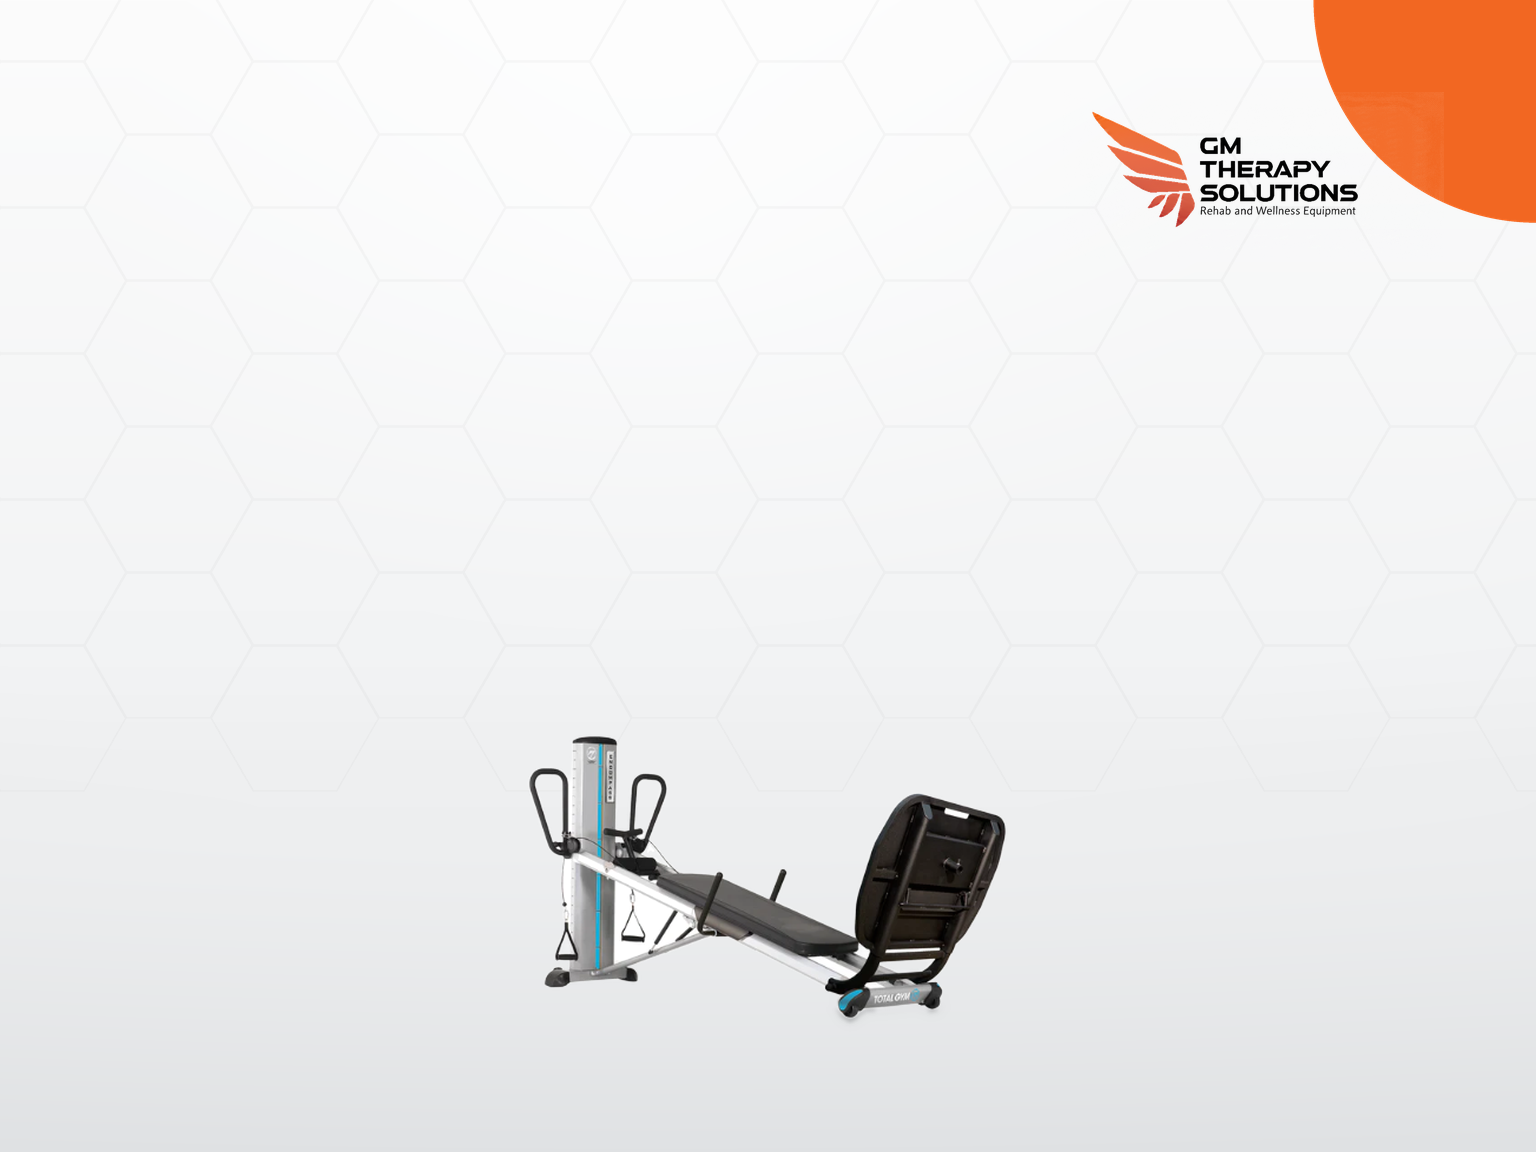
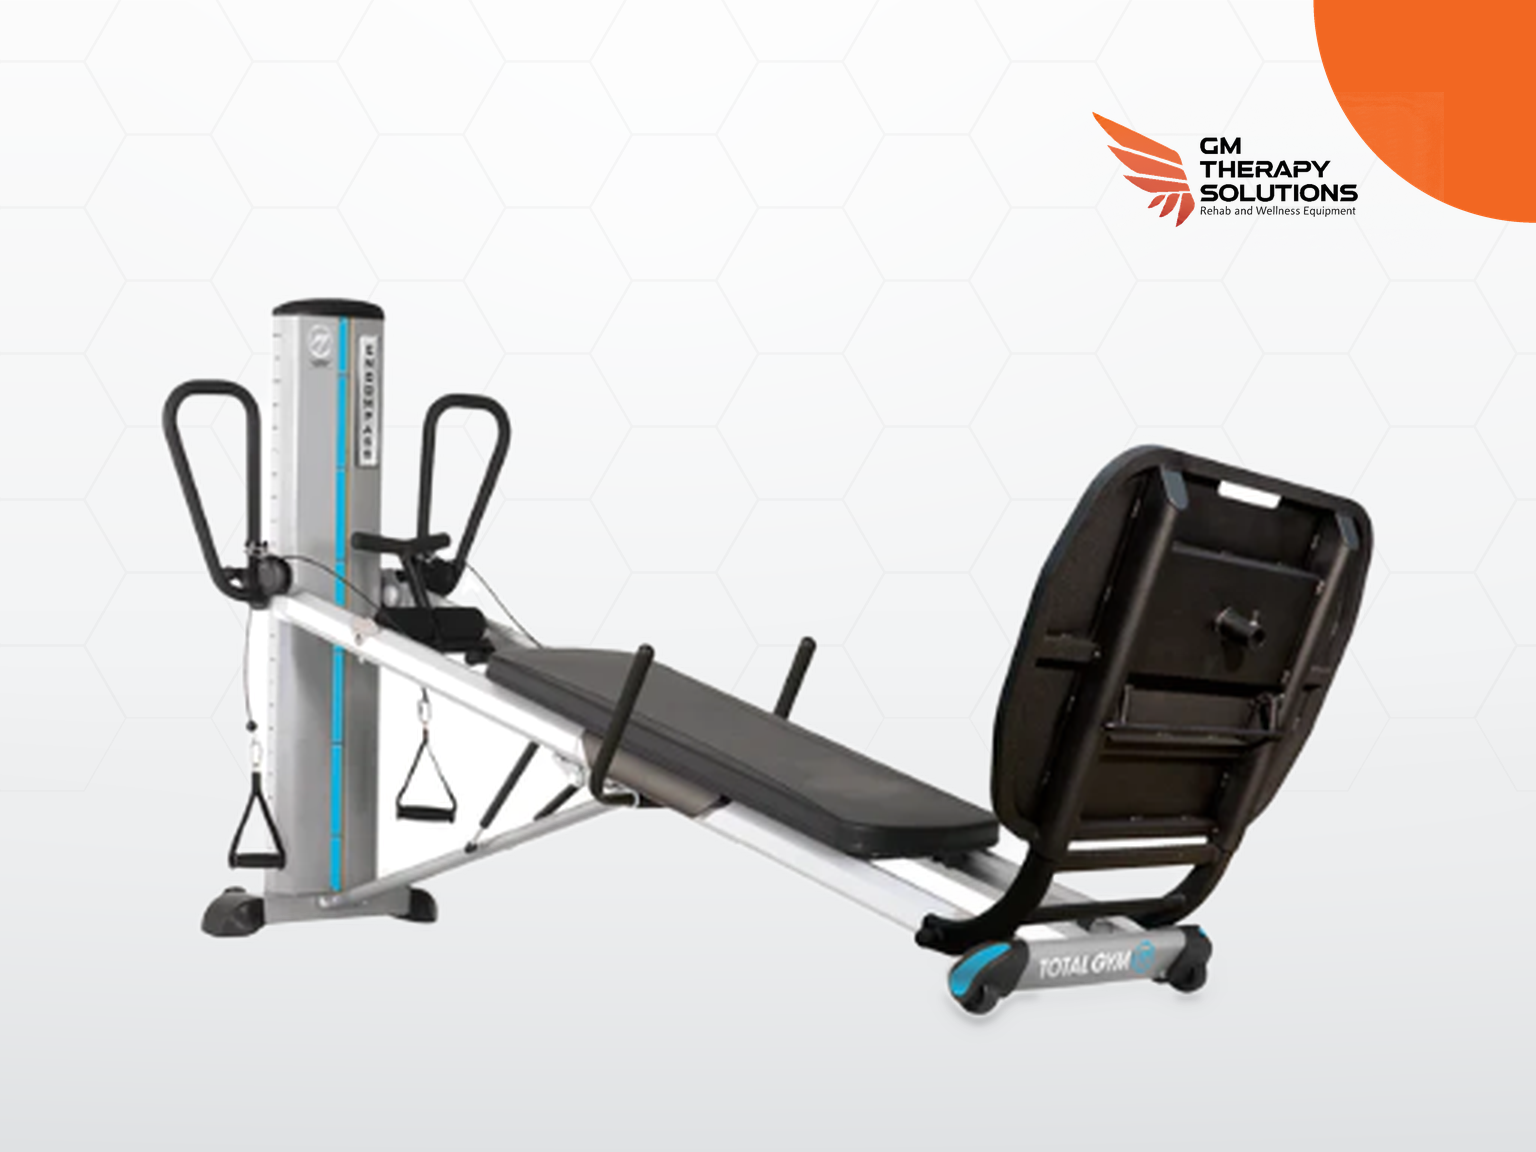
Changes

Changed region(s): [[0.0938, 0.25, 0.9062, 0.9062]]

diff --git a/scripts/brand_backdrop.py b/scripts/brand_backdrop.py
@@ -290,6 +290,8 @@ def cutout(raw: Image.Image) -> Image.Image:
 
 # Per-image polygons (in source-pixel coordinates) that are always foreground.
 # Used when every model drops a real part, e.g. a low carpeted platform base.
+SIZE_BOOST = {"U-GMTS-3HL.jpg": 3.0, "U-TG-5200-E2.png": 3.0}
+
 FORCE_REGIONS: dict[str, list[list[tuple[int, int]]]] = {
     "U-CLIN-7360.png": [[(243, 800), (770, 708), (1104, 1042), (1102, 1078), (468, 1308), (440, 1262), (243, 838)]],
 }
